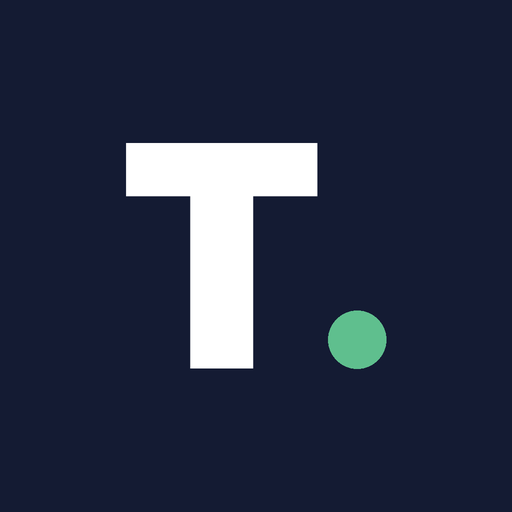
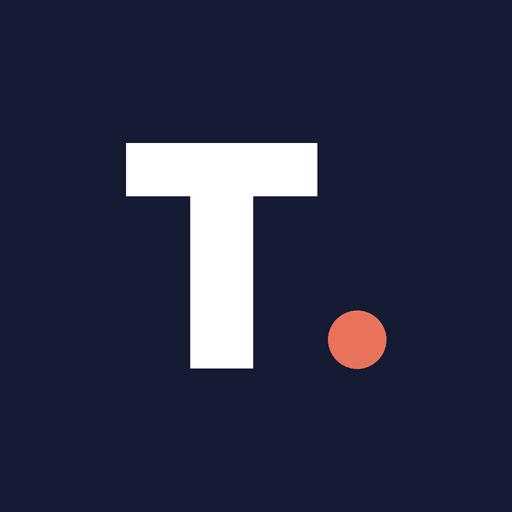
Add files via upload

Changed region(s): [[0.625, 0.5938, 0.7812, 0.7188]]

diff --git a/index.html b/index.html
@@ -9,8 +9,8 @@
 <meta name="apple-mobile-web-app-status-bar-style" content="default">
 <meta name="apple-mobile-web-app-title" content="Telemetry">
 <meta name="robots" content="noindex">
-<link rel="apple-touch-icon" href="apple-touch-icon.png">
-<link rel="icon" type="image/png" href="icon-192.png">
+<link rel="apple-touch-icon" href="apple-touch-icon.png?v=2">
+<link rel="icon" type="image/png" href="icon-192.png?v=2">
 <link rel="manifest" href="manifest.webmanifest">
 <title>Telemetry</title>
 <link rel="preconnect" href="https://fonts.googleapis.com">
@@ -44,7 +44,7 @@ button{cursor:pointer}
 header.top{position:sticky;top:env(safe-area-inset-top,0px);z-index:5;background:var(--bg);padding-block:14px 10px}
 .brand{display:flex;align-items:center;justify-content:space-between;gap:12px}
 .brand h1{margin:0;font:800 22px/1 var(--f-display);letter-spacing:-.01em}
-.brand h1 span{color:var(--go)}
+.brand h1 span{color:#E8735A}   /* matches the app icon's coral dot */
 .sync{display:flex;align-items:center;gap:6px}
 .sync i{width:7px;height:7px;border-radius:50%;background:var(--go);display:inline-block}
 .sync.busy i{background:var(--race);animation:pulse 1s infinite}
@@ -401,7 +401,7 @@ dl.facts dd{margin:2px 0 0;font:700 17px var(--f-display);overflow-wrap:anywhere
 <script>
 /* ================= API ================= */
 const IS_PREVIEW = !!window.TELEMETRY_SNAPSHOT;
-const APP_VERSION = '2026.10.28-9';
+const APP_VERSION = '2026.10.28-10';
 /* Connection to your Apps Script (saved on this device only) */
 const CONF = {
   get url() { try { return localStorage.getItem('telemetry.url') || ''; } catch (e) { return ''; } },
